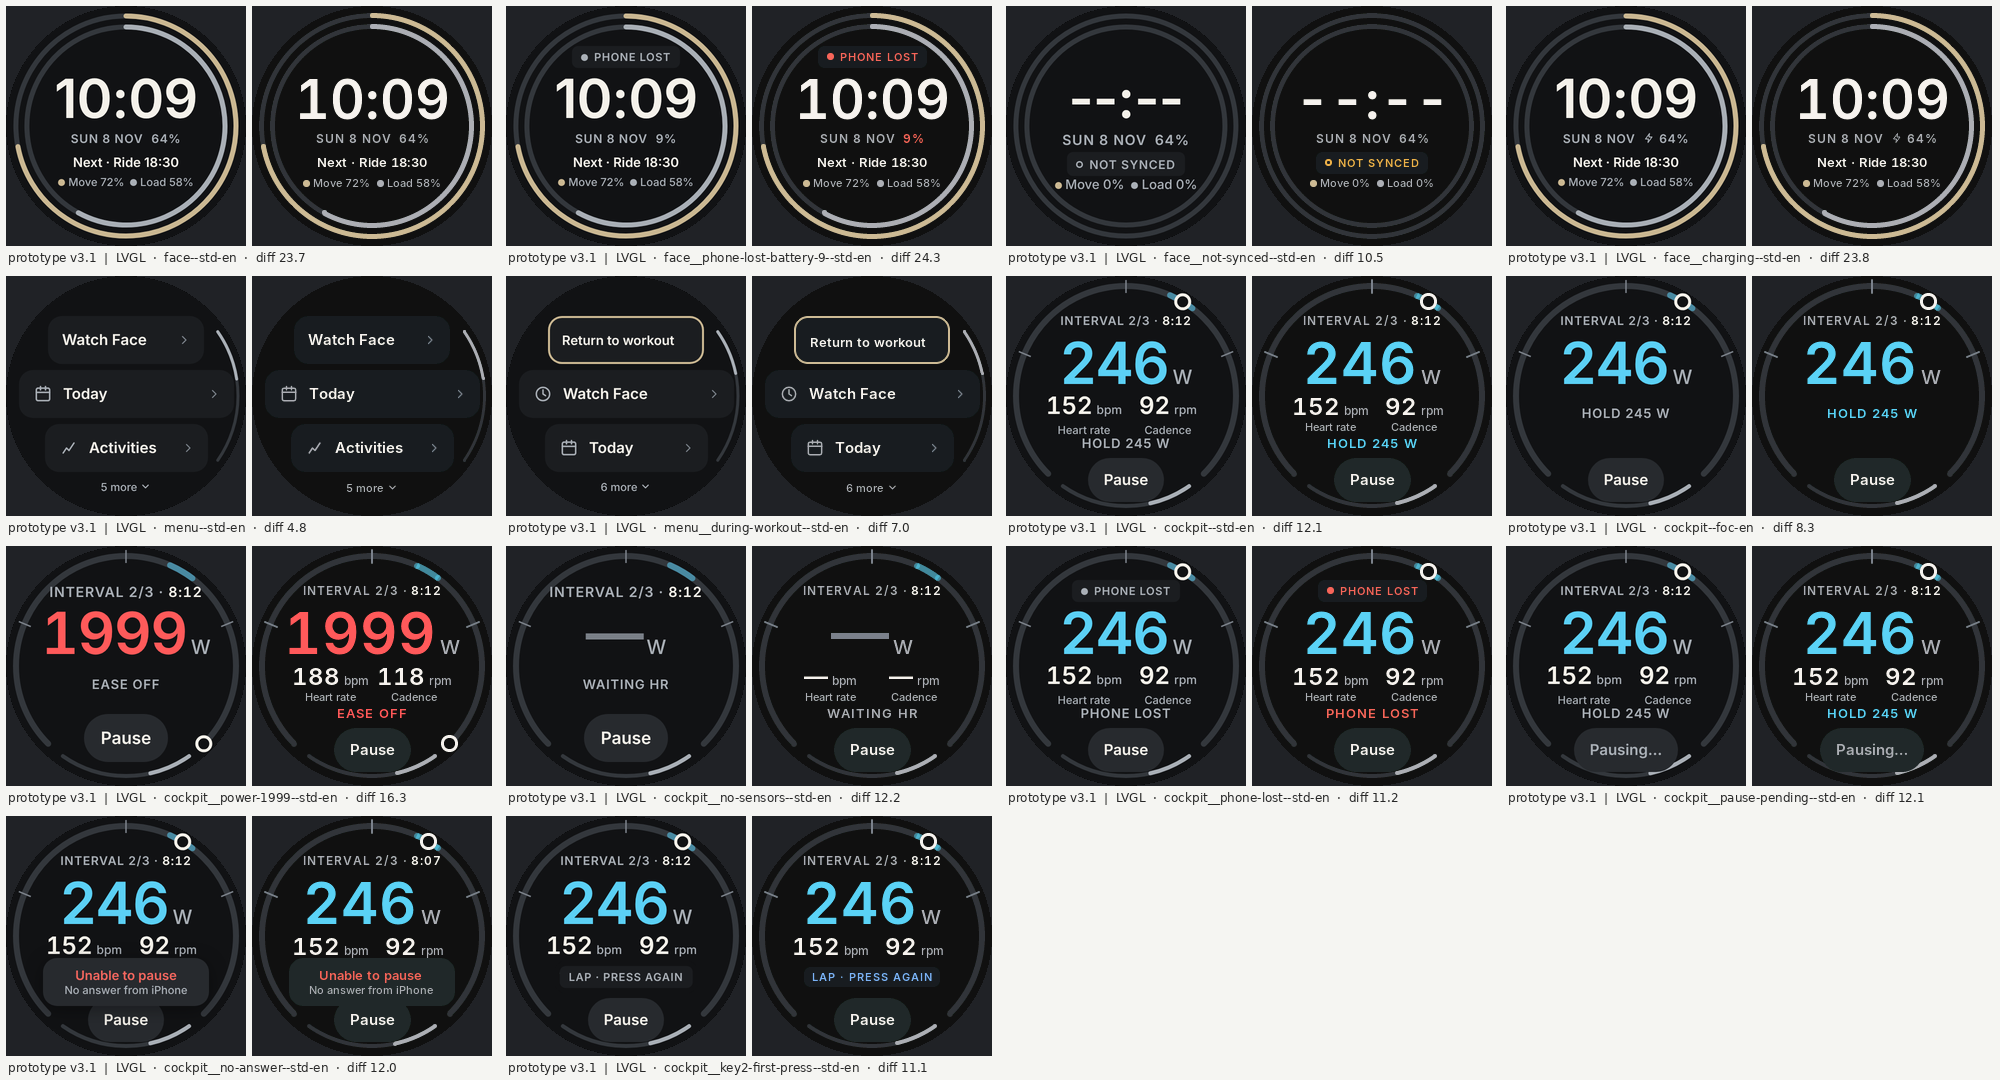
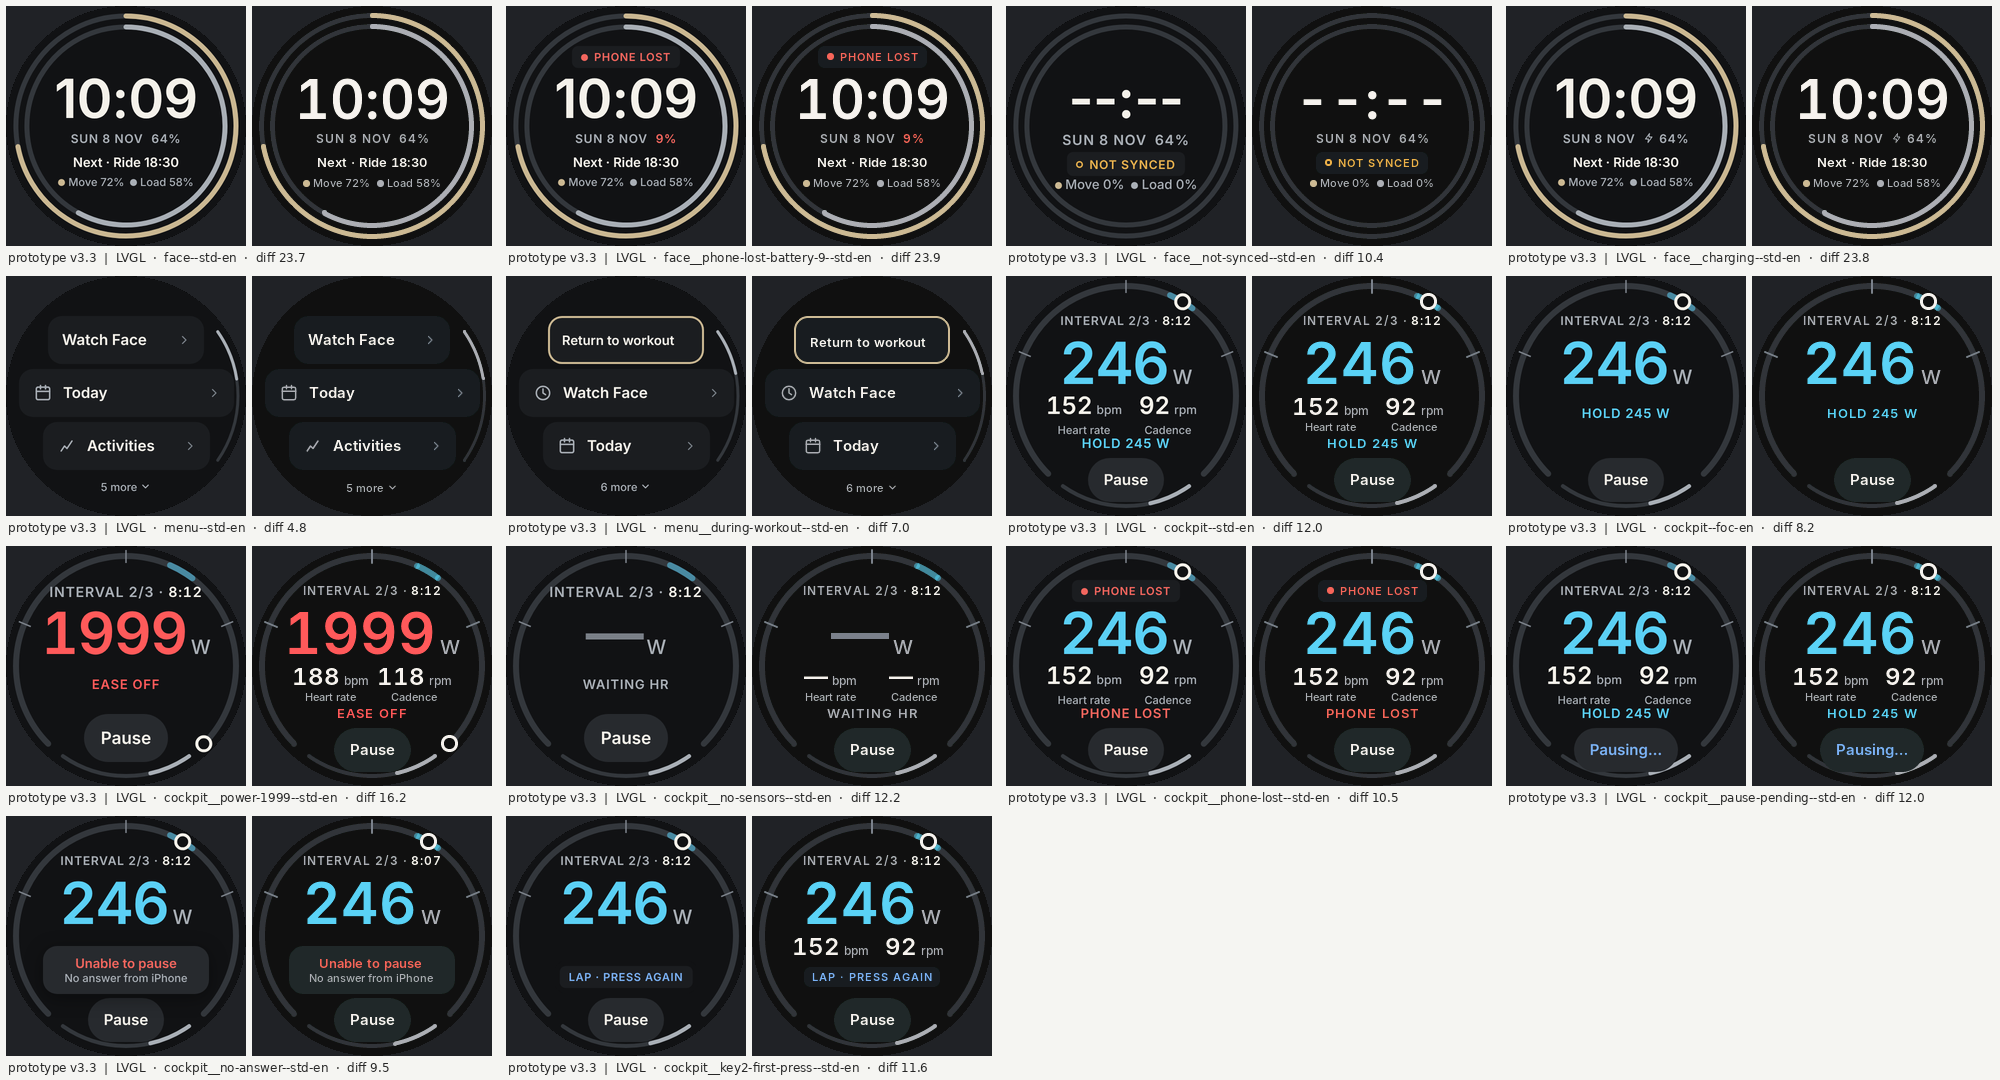
watch v3: owner decisions of 9 Nov — status colours, 44 px menu hint, overlays never cover a control
- Menu rows 5 px apart: the last row ends at y 194, the "more" hint gets a 44 x 44 px touch area on the glass.
- Pending commands in blue (status colours: red failed/critical, blue pending, amber warning, green/neutral confirmed).
- Cockpit banner (y 130) and toast (y 140) sit above the Pause/Resume button; Key 2 chip at y 138 in Large Text.
- Text a banner, toast or key chip would partly cover is hidden as a group (no half numbers or letter fragments).
- Checker: touch targets must hold a 44 x 44 square on the glass, touch areas may not overlap, overlays may not cover
  a control. Renders and prototype comparison regenerated against prototype v3.3.

Claude-Session: https://claude.ai/code/session_011vUzaqDEocg99WwFiQQRTn

diff --git a/watch/firmware/src/ui/v3/cyv3_ui.cpp b/watch/firmware/src/ui/v3/cyv3_ui.cpp
@@ -88,7 +88,7 @@ bool Ui::tap(Model& m, int x, int y, uint32_t now) {
 
 void Ui::build(const Model& m) {
     lv_obj_clean(root_);
-    lines_.clear(); hits_.clear();
+    lines_.clear(); hits_.clear(); groups_.clear();
     clock_ = date_ = interval_ = lead_ = hrTile_ = cadTile_ = Run{};
     cmd_ = marker_ = ivArc_ = nullptr;
     lv_obj_set_style_bg_color(root_, col(pal_->bg), 0); lv_obj_set_style_bg_opa(root_, LV_OPA_COVER, 0);
@@ -133,6 +133,7 @@ void Ui::makeRun(Run& r) {
                 lv_obj_clear_flag(p.obj, LV_OBJ_FLAG_CLICKABLE); break; }
         }
     }
+    std::vector<lv_obj_t*> g; for (auto& p : r.pieces) g.push_back(p.obj); groups_.push_back(g);
     layoutRun(r);
 }
 
@@ -205,7 +206,8 @@ lv_obj_t* Ui::chip(int top, const std::string& text, uint32_t color, int dot, ui
 lv_obj_t* Ui::button(int top, const std::string& text, int kind, Action a) {
     Font f = font(Type::Button, large_);
     int h = large_ ? 48 : BUTTON_H, minW = large_ ? 84 : 76;
-    uint32_t bg = kind == 1 ? pal_->accent : pal_->surface_2, fg = kind == 1 ? pal_->on_accent : kind == 2 ? pal_->ink_2 : pal_->ink;
+    // kind 2 = command pending: blue text (approved status colours: blue = pending)
+    uint32_t bg = kind == 1 ? pal_->accent : pal_->surface_2, fg = kind == 1 ? pal_->on_accent : kind == 2 ? pal_->status_info : pal_->ink;
     lv_obj_t* b = lv_obj_create(root_); lv_obj_remove_style_all(b);
     lv_obj_set_style_bg_color(b, col(bg), 0); lv_obj_set_style_bg_opa(b, LV_OPA_COVER, 0); lv_obj_set_style_radius(b, LV_RADIUS_CIRCLE, 0);
     lv_obj_clear_flag(b, LV_OBJ_FLAG_SCROLLABLE | LV_OBJ_FLAG_CLICKABLE);
@@ -287,7 +289,8 @@ void Ui::updateFace(const Model& m) {
 void Ui::buildMenu(const Model& m) {
     const Palette& p = *pal_; Lang l = m.settings.lang;
     auto items = m.menuItems();
-    const int h = ROW_H + (large_ ? 8 : 0), gap = 6, minW = 132, yMax = 202, off = m.menuScroll;
+    // 5 px gaps (approved 9 Nov): the last row ends at y 194, leaving a 44 px touch area for the "more" hint below it
+    const int h = ROW_H + (large_ ? 8 : 0), gap = 5, minW = 132, yMax = 202, off = m.menuScroll;
     int y0 = 36;
     while (chordAt(float(y0), float(y0 + h)) - 6 < 156 && y0 + h / 2 < 120) y0++;   // first row starts where the circle is wide enough
     int y = y0 - off * (h + gap), shown = 0;
@@ -346,7 +349,7 @@ void Ui::buildMenu(const Model& m) {
         Piece t; t.text = trf(S::More, l, more); t.font = cap; t.color = p.ink_2; t.rtlText = ar_; r.pieces.push_back(t);
         Piece c; c.kind = Piece::Icon; c.icon = &cyv3_ic_down_11; c.gapBefore = 4; c.iconDrop = 1; c.color = p.ink_2; r.pieces.push_back(c);
         makeRun(r);
-        hit(C - 60, 203, 120, 37, Action::MenuMore, 0, "more hint");   // below the last row; swipe up scrolls too
+        hit(C - 60, 194, 120, 44, Action::MenuMore, 0, "more hint");   // 44 px, below the last row (ends at 193); swipe up scrolls too
     }
     if (n > shown) {                                                  // scroll position: short arc on the trailing edge
         float a0 = ar_ ? 235.f : 55.f, span = 70.f, f0 = float(std::min(off, n - shown)) / n, f1 = f0 + float(shown) / n;
@@ -407,13 +410,14 @@ void Ui::buildCockpit(const Model& m) {
             Run c; c.top = 144; c.lineBox = cap.lineBox; c.mainCss = cap.css; c.centerX = cx;
             Piece t; t.text = tr(name, l); t.font = cap; t.color = p.ink_2; t.rtlText = ar_; c.pieces.push_back(t);
             makeRun(c);
+            auto cg = groups_.back(); groups_.pop_back(); groups_.back().insert(groups_.back().end(), cg.begin(), cg.end());   // number, unit and caption: one tile
         };
         tile(hrTile_, C - 42, S::HeartRate); tile(cadTile_, C + 42, S::Cadence);
     }
     cmdTop_ = focused ? 130 : 160;
     Font f13 = font(Type::Small13, false); f13.tracked = true;
     cmd_ = label(root_, "", f13, p.ink_2, ar_);
-    if (keyChip && cmdTop_ + 14 > 150 - 6 && cmdTop_ < 150 + 22 + 6) lv_obj_add_flag(cmd_, LV_OBJ_FLAG_HIDDEN);   // under the Key 2 chip
+    if (keyChip && cmdTop_ + 16 > keyChipTop() - 6 && cmdTop_ < keyChipTop() + 22 + 6) lv_obj_add_flag(cmd_, LV_OBJ_FLAG_HIDDEN);   // under the Key 2 chip
     bool paused = m.wk == WkState::Paused;
     int btop = large_ ? 168 : (paused ? 180 : 182);
     if (paused) button(btop, tr(m.pending == Cmd::Resume ? S::Resuming : S::Resume, l), m.pending == Cmd::Resume ? 2 : 1, Action::Resume);
@@ -503,12 +507,31 @@ void Ui::updateCockpit(const Model& m) {
 }
 
 // ---------------------------------------------------------------------------------------------------------------- overlays
+/// Hides text and icons that an overlay (banner, toast, Key 2 chip) would partly cover, so no half-covered numbers or
+/// letter fragments show around it. They reappear when the overlay goes (the screen is rebuilt then).
+void Ui::hideUnder(lv_obj_t* overlay, int margin) {
+    lv_obj_update_layout(root_);
+    lv_area_t o; lv_obj_get_coords(overlay, &o); o.x1 -= margin; o.y1 -= margin; o.x2 += margin; o.y2 += margin;
+    for (uint32_t i = 0; i < lv_obj_get_child_cnt(root_); i++) {
+        lv_obj_t* c = lv_obj_get_child(root_, int32_t(i));
+        if (c == overlay || !(lv_obj_check_type(c, &lv_label_class) || lv_obj_check_type(c, &lv_img_class))) continue;
+        lv_area_t a; lv_obj_get_coords(c, &a);
+        if (std::min(a.x2, o.x2) >= std::max(a.x1, o.x1) && std::min(a.y2, o.y2) >= std::max(a.y1, o.y1)) lv_obj_add_flag(c, LV_OBJ_FLAG_HIDDEN);
+    }
+    for (auto& g : groups_) {                      // never leave half a group behind (e.g. "rpm" without its number)
+        bool any = false; for (auto* o : g) any = any || lv_obj_has_flag(o, LV_OBJ_FLAG_HIDDEN);
+        if (any) for (auto* o : g) lv_obj_add_flag(o, LV_OBJ_FLAG_HIDDEN);
+    }
+}
+
 void Ui::buildOverlays(const Model& m) {
     const Palette& p = *pal_; Lang l = m.settings.lang;
-    if (m.key2Armed && m.screen == Screen::Cockpit) lv_obj_set_user_data(chip(150, tr(S::KeyLapPressAgain, l), p.status_info, 0, p.surface, 6), (void*)"overlay");
+    if (m.key2Armed && m.screen == Screen::Cockpit) { lv_obj_t* k = chip(keyChipTop(), tr(S::KeyLapPressAgain, l), p.status_info, 0, p.surface, 6); lv_obj_set_user_data(k, (void*)"overlay"); hideUnder(k, 6); }
     if (m.toast.kind == Toast::None) return;
     if (m.toast.hasSub) {                                             // banner: result + reason, tap to dismiss
-        int top = (large_ && m.screen == Screen::Cockpit) ? 112 : 142, w = 166, h = 48;
+        // on the cockpit the banner sits wholly above the Pause/Resume button, so both stay visible and tappable (9 Nov fix)
+        bool ck = m.screen == Screen::Cockpit;
+        int top = ck ? (large_ ? 112 : 130) : 142, w = 166, h = 48;
         lv_obj_t* b = lv_obj_create(root_); lv_obj_remove_style_all(b);
         lv_obj_set_style_bg_color(b, col(p.surface_2), 0); lv_obj_set_style_bg_opa(b, LV_OPA_COVER, 0); lv_obj_set_style_radius(b, RADIUS_M, 0);
         lv_obj_clear_flag(b, LV_OBJ_FLAG_SCROLLABLE | LV_OBJ_FLAG_CLICKABLE); lv_obj_set_user_data(b, (void*)"overlay");
@@ -530,6 +553,7 @@ void Ui::buildOverlays(const Model& m) {
         lv_obj_set_pos(t, (w - tw) / 2, labelYFor(baselineOf(9, 16, 13), t13.f));
         lv_obj_set_pos(s, (w - sw) / 2, labelYFor(baselineOf(25, 14, 11), c11.f));
         hit(C - w / 2, top, w, h, Action::DismissToast, 0, "banner");
+        hideUnder(b, 2);
         return;
     }
     bool ok = m.toast.kind == Toast::Ok;                              // short result: pill with a check or a warning sign
@@ -542,9 +566,11 @@ void Ui::buildOverlays(const Model& m) {
     lv_obj_set_style_img_recolor(ic, col(ok ? p.status_ok : p.status_critical), 0); lv_obj_set_style_img_recolor_opa(ic, LV_OPA_COVER, 0);
     lv_obj_update_layout(box);
     int tw = lv_obj_get_width(t), w = 13 + 15 + 7 + tw + 13, h = 32;
-    lv_obj_set_size(box, w, h); lv_obj_set_pos(box, C - w / 2, 184);
+    int toastTop = m.screen == Screen::Cockpit ? (large_ ? 128 : 140) : 184;   // cockpit: above the button, never over it
+    lv_obj_set_size(box, w, h); lv_obj_set_pos(box, C - w / 2, toastTop);
     lv_obj_set_pos(ic, ar_ ? w - 13 - 15 : 13, (h - 15) / 2);
     lv_obj_set_pos(t, ar_ ? 13 : 13 + 15 + 7, labelYFor(baselineOf((h - 16) / 2, 16, 13), f.f));
+    hideUnder(box, 2);
 }
 
 } // namespace cyw::v3

diff --git a/watch/firmware/test/v3/host_main.cpp b/watch/firmware/test/v3/host_main.cpp
@@ -58,7 +58,7 @@ static std::vector<Finding> g_findings;
 static std::vector<std::string> g_infos;
 static int g_checks = 0;
 /// Findings recorded in the Stage 1 report as remaining defects that need a design decision; listed, never hidden.
-static bool knownDefect(const std::string& rule, const std::string& d) { return rule == "touch-target" && d.rfind("more hint", 0) == 0; }
+static bool knownDefect(const std::string&, const std::string&) { return false; }   // none since the 9 Nov menu fix
 static void fail(const std::string& st, const std::string& rule, const std::string& d) { g_findings.push_back({st, rule, d, knownDefect(rule, d)}); }
 
 struct Box { int x1, y1, x2, y2; lv_obj_t* obj; std::string what; bool overlay; };
@@ -133,10 +133,33 @@ static void checkState(const std::string& st, Ui& ui, const Model& m) {
         if (a.overlay != b.overlay) { g_infos.push_back(st + ": overlay covers " + (a.overlay ? b.what : a.what)); continue; }
         fail(st, "overlap", a.what + " overlaps " + b.what + " by " + std::to_string(ix) + "x" + std::to_string(iy) + " px");
     }
-    // 5 touch targets ≥ 44 × 44 on the glass
+    // 5 touch targets: each must hold a 44 × 44 px square that lies wholly on the round glass (radius 120)
     for (auto& h : ui.hits()) {
-        int w = h.area.x2 - h.area.x1 + 1, hh = std::min<int>(h.area.y2, 239) - h.area.y1 + 1;
-        g_checks++; if (w < TOUCH_MIN || hh < TOUCH_MIN) fail(st, "touch-target", std::string(h.name) + " is " + std::to_string(w) + "x" + std::to_string(hh) + " px");
+        g_checks++; bool fits = false;
+        for (int y = h.area.y1; y + TOUCH_MIN - 1 <= h.area.y2 && !fits; y++)
+            for (int x = h.area.x1; x + TOUCH_MIN - 1 <= h.area.x2 && !fits; x++) {
+                bool in = true;
+                for (auto [cx, cy] : {std::pair<int, int>{x, y}, {x + TOUCH_MIN - 1, y}, {x, y + TOUCH_MIN - 1}, {x + TOUCH_MIN - 1, y + TOUCH_MIN - 1}})
+                    if (std::hypot(cx - 119.5f, cy - 119.5f) > 120.f) in = false;
+                fits = in;
+            }
+        if (!fits) fail(st, "touch-target", std::string(h.name) + " has no 44x44 px area on the glass (" + std::to_string(h.area.x2 - h.area.x1 + 1) + "x" + std::to_string(h.area.y2 - h.area.y1 + 1) + " px box)");
+    }
+    // 6 a banner, toast or key chip never covers a control the rider may need to press
+    for (lv_obj_t* o : all) {
+        void* u = lv_obj_get_user_data(o); if (!u || std::strcmp(static_cast<const char*>(u), "overlay") != 0) continue;
+        lv_area_t a; lv_obj_get_coords(o, &a);
+        for (auto& h : ui.hits()) {
+            if (std::string(h.name) == "banner") continue; g_checks++;
+            if (std::min(a.x2, h.area.x2) >= std::max(a.x1, h.area.x1) && std::min(a.y2, h.area.y2) >= std::max(a.y1, h.area.y1))
+                fail(st, "overlay-covers-control", std::string("overlay covers the ") + h.name);
+        }
+    }
+    // 7 touch areas never overlap each other
+    for (size_t i = 0; i < ui.hits().size(); i++) for (size_t j = i + 1; j < ui.hits().size(); j++) {
+        const auto &a = ui.hits()[i].area, &b = ui.hits()[j].area; g_checks++;
+        if (std::min(a.x2, b.x2) >= std::max(a.x1, b.x1) && std::min(a.y2, b.y2) >= std::max(a.y1, b.y1))
+            fail(st, "touch-overlap", std::string(ui.hits()[i].name) + " overlaps " + ui.hits()[j].name);
     }
     (void)m;
 }

diff --git a/watch/firmware/tools/v3/compare.py b/watch/firmware/tools/v3/compare.py
@@ -1,5 +1,5 @@
 #!/usr/bin/env python3
-"""Side-by-side comparison of the LVGL renders (test/v3/out) with the approved prototype v3.1 screenshots.
+"""Side-by-side comparison of the LVGL renders (test/v3/out) with the approved prototype screenshots (v3.3).
 Usage: compare.py <lvgl-out-dir> <prototype-shots-dir> <dest-dir>
 Writes one sheet per group (prototype left, LVGL right) and comparison.json with a pixel difference per pair
 (mean absolute difference of the 0–255 channels inside the round screen; 0 = identical). Needs Pillow."""
@@ -39,7 +39,7 @@ def main(out, shots, dest):
             score = sum(sum(p) for p in px) / (3 * len(px)); result[mine] = {'prototype': proto, 'mean_abs_diff': round(score, 2)}
             x, y = (i % cols) * 500, (i // cols) * 270
             sheet.paste(a, (x + 6, y + 6)); sheet.paste(b, (x + 252, y + 6))
-            d.text((x + 8, y + 250), f'prototype v3.1  |  LVGL  ·  {mine}  ·  diff {score:.1f}', fill=(40, 40, 40), font=font)
+            d.text((x + 8, y + 250), f'prototype v3.3  |  LVGL  ·  {mine}  ·  diff {score:.1f}', fill=(40, 40, 40), font=font)
         sheet.save(dest / f'{name}.png', optimize=True)
     (dest / 'comparison.json').write_text(json.dumps(result, indent=1))
     print('compared', len(result), 'pairs; mean difference', round(sum(v['mean_abs_diff'] for v in result.values()) / len(result), 2))

diff --git a/watch/firmware/src/ui/v3/cyv3_ui.hpp b/watch/firmware/src/ui/v3/cyv3_ui.hpp
@@ -46,6 +46,7 @@ private:
     lv_obj_t *cmd_ = nullptr, *marker_ = nullptr, *ivArc_ = nullptr;
     int cmdTop_ = 0, leadPx_ = 0;
     std::vector<std::vector<lv_point_t>> lines_;   // point storage for lv_line objects (must outlive them)
+    std::vector<std::vector<lv_obj_t*>> groups_;   // objects that are read together (a run, or a tile's number + caption): hidden together
 
     std::string structureKey(const Model& m) const;
     void build(const Model& m);
@@ -54,6 +55,7 @@ private:
     void buildMenu(const Model& m);
     void buildCockpit(const Model& m);
     void buildOverlays(const Model& m);
+    void hideUnder(lv_obj_t* overlay, int margin);
     void updateFace(const Model& m);
     void updateCockpit(const Model& m);
 
@@ -70,6 +72,8 @@ private:
     void setTile(Run& r, int v, const char* unit);
     void setCommand(const Model& m);
     void placeMarker(const Model& m);
+    /// Key 2 chip: the prototype's y 150; in Large Text 138 so it stays above the taller button (168).
+    int keyChipTop() const { return large_ ? 138 : 150; }
 };
 
 } // namespace cyw::v3
